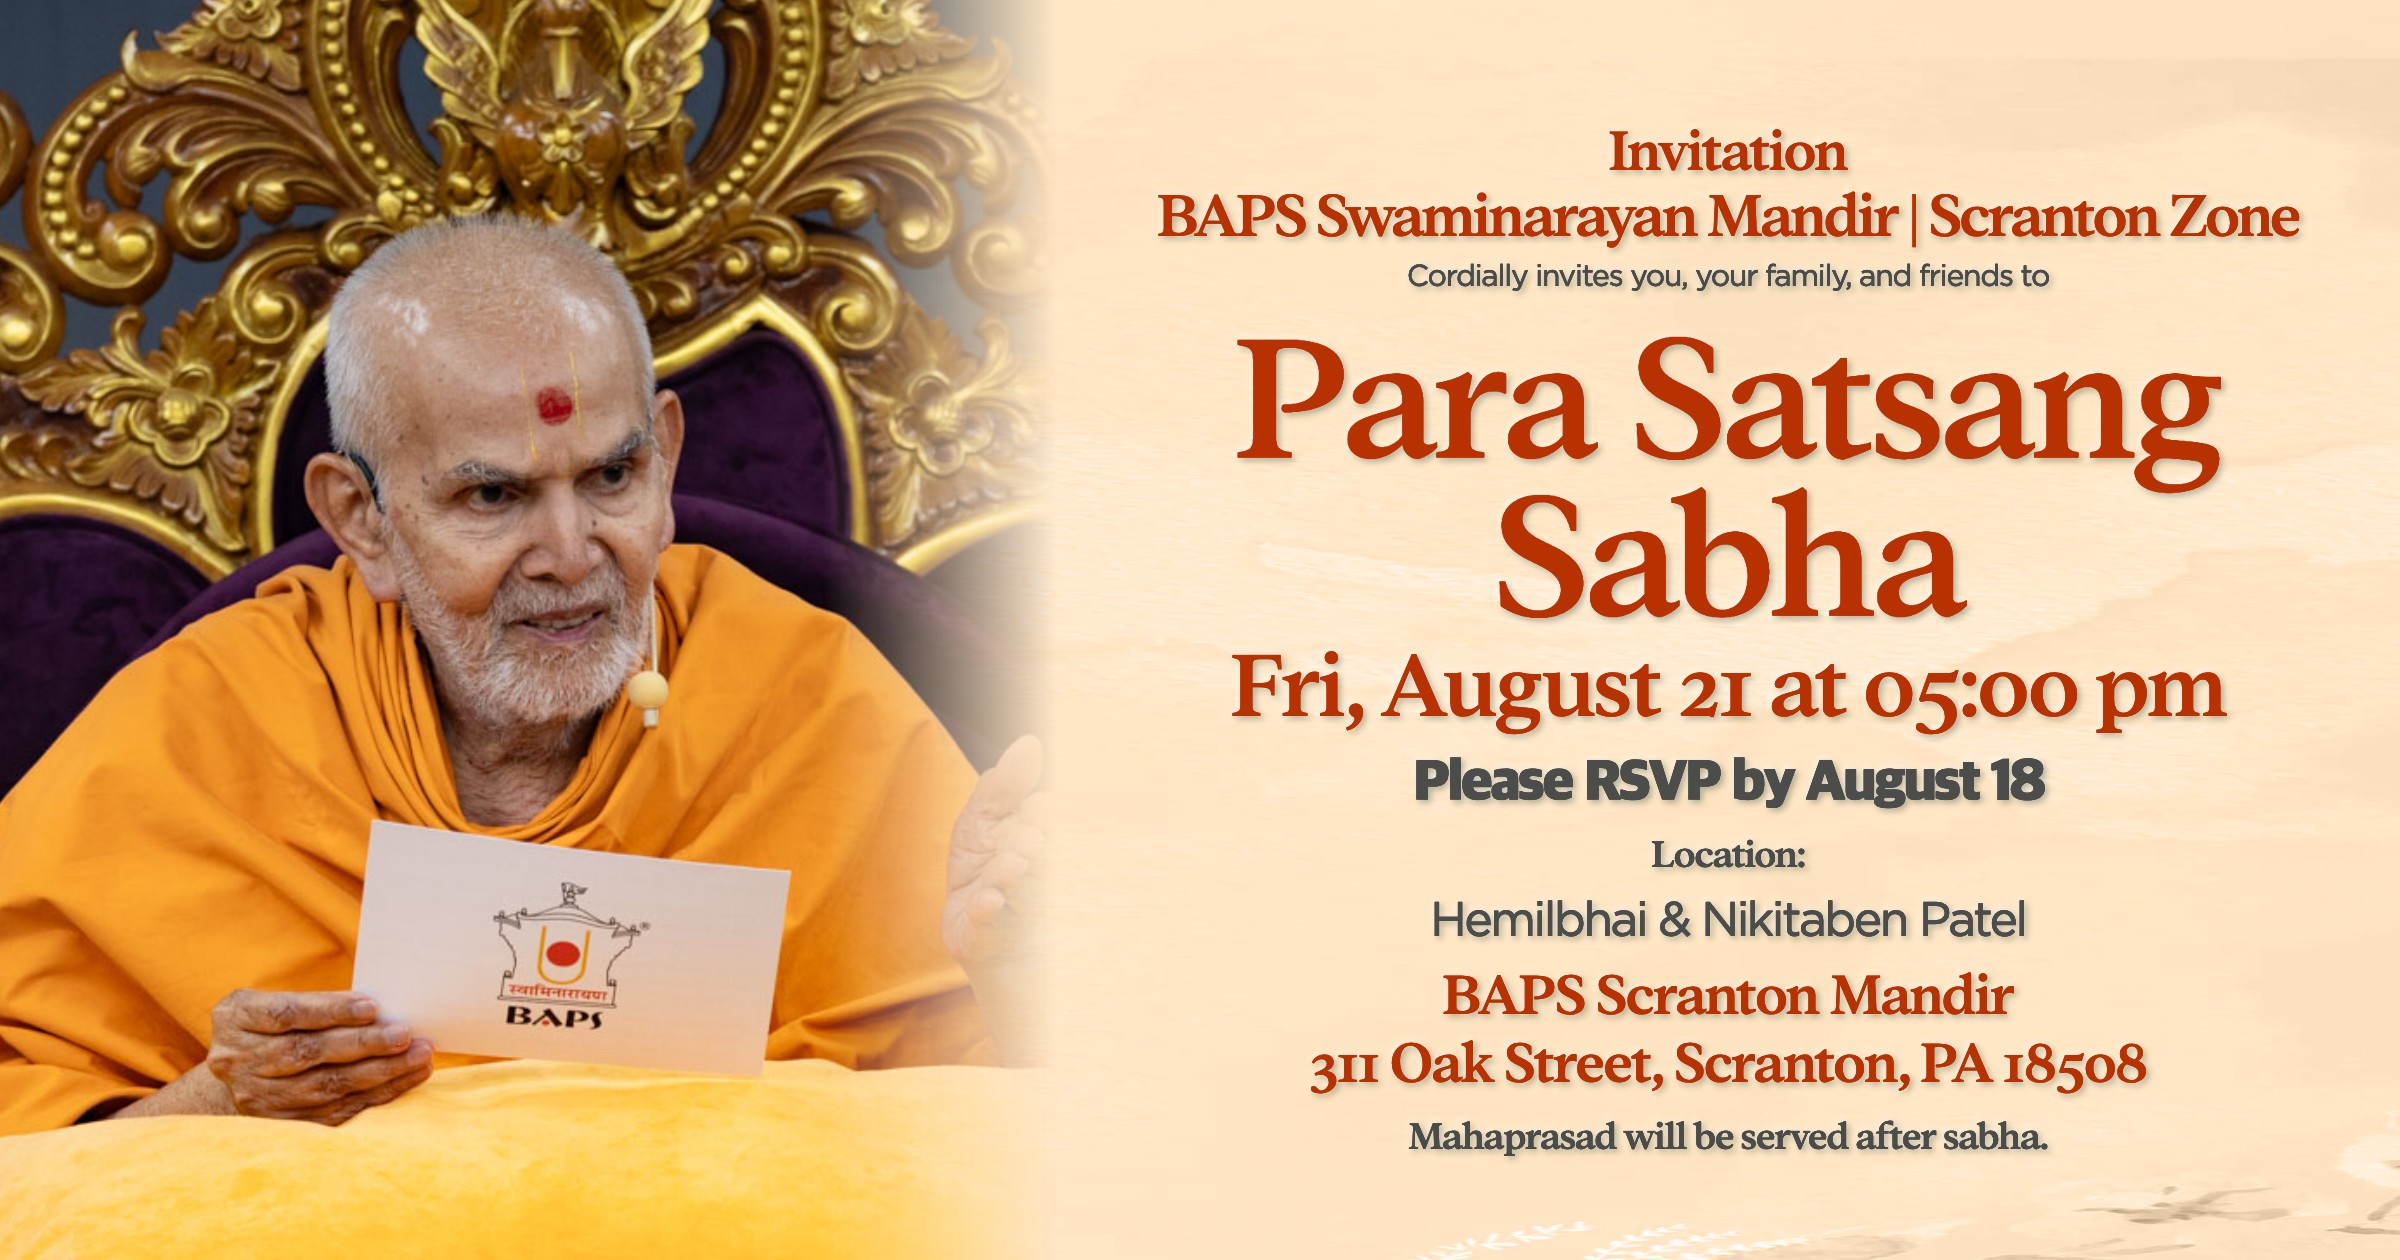
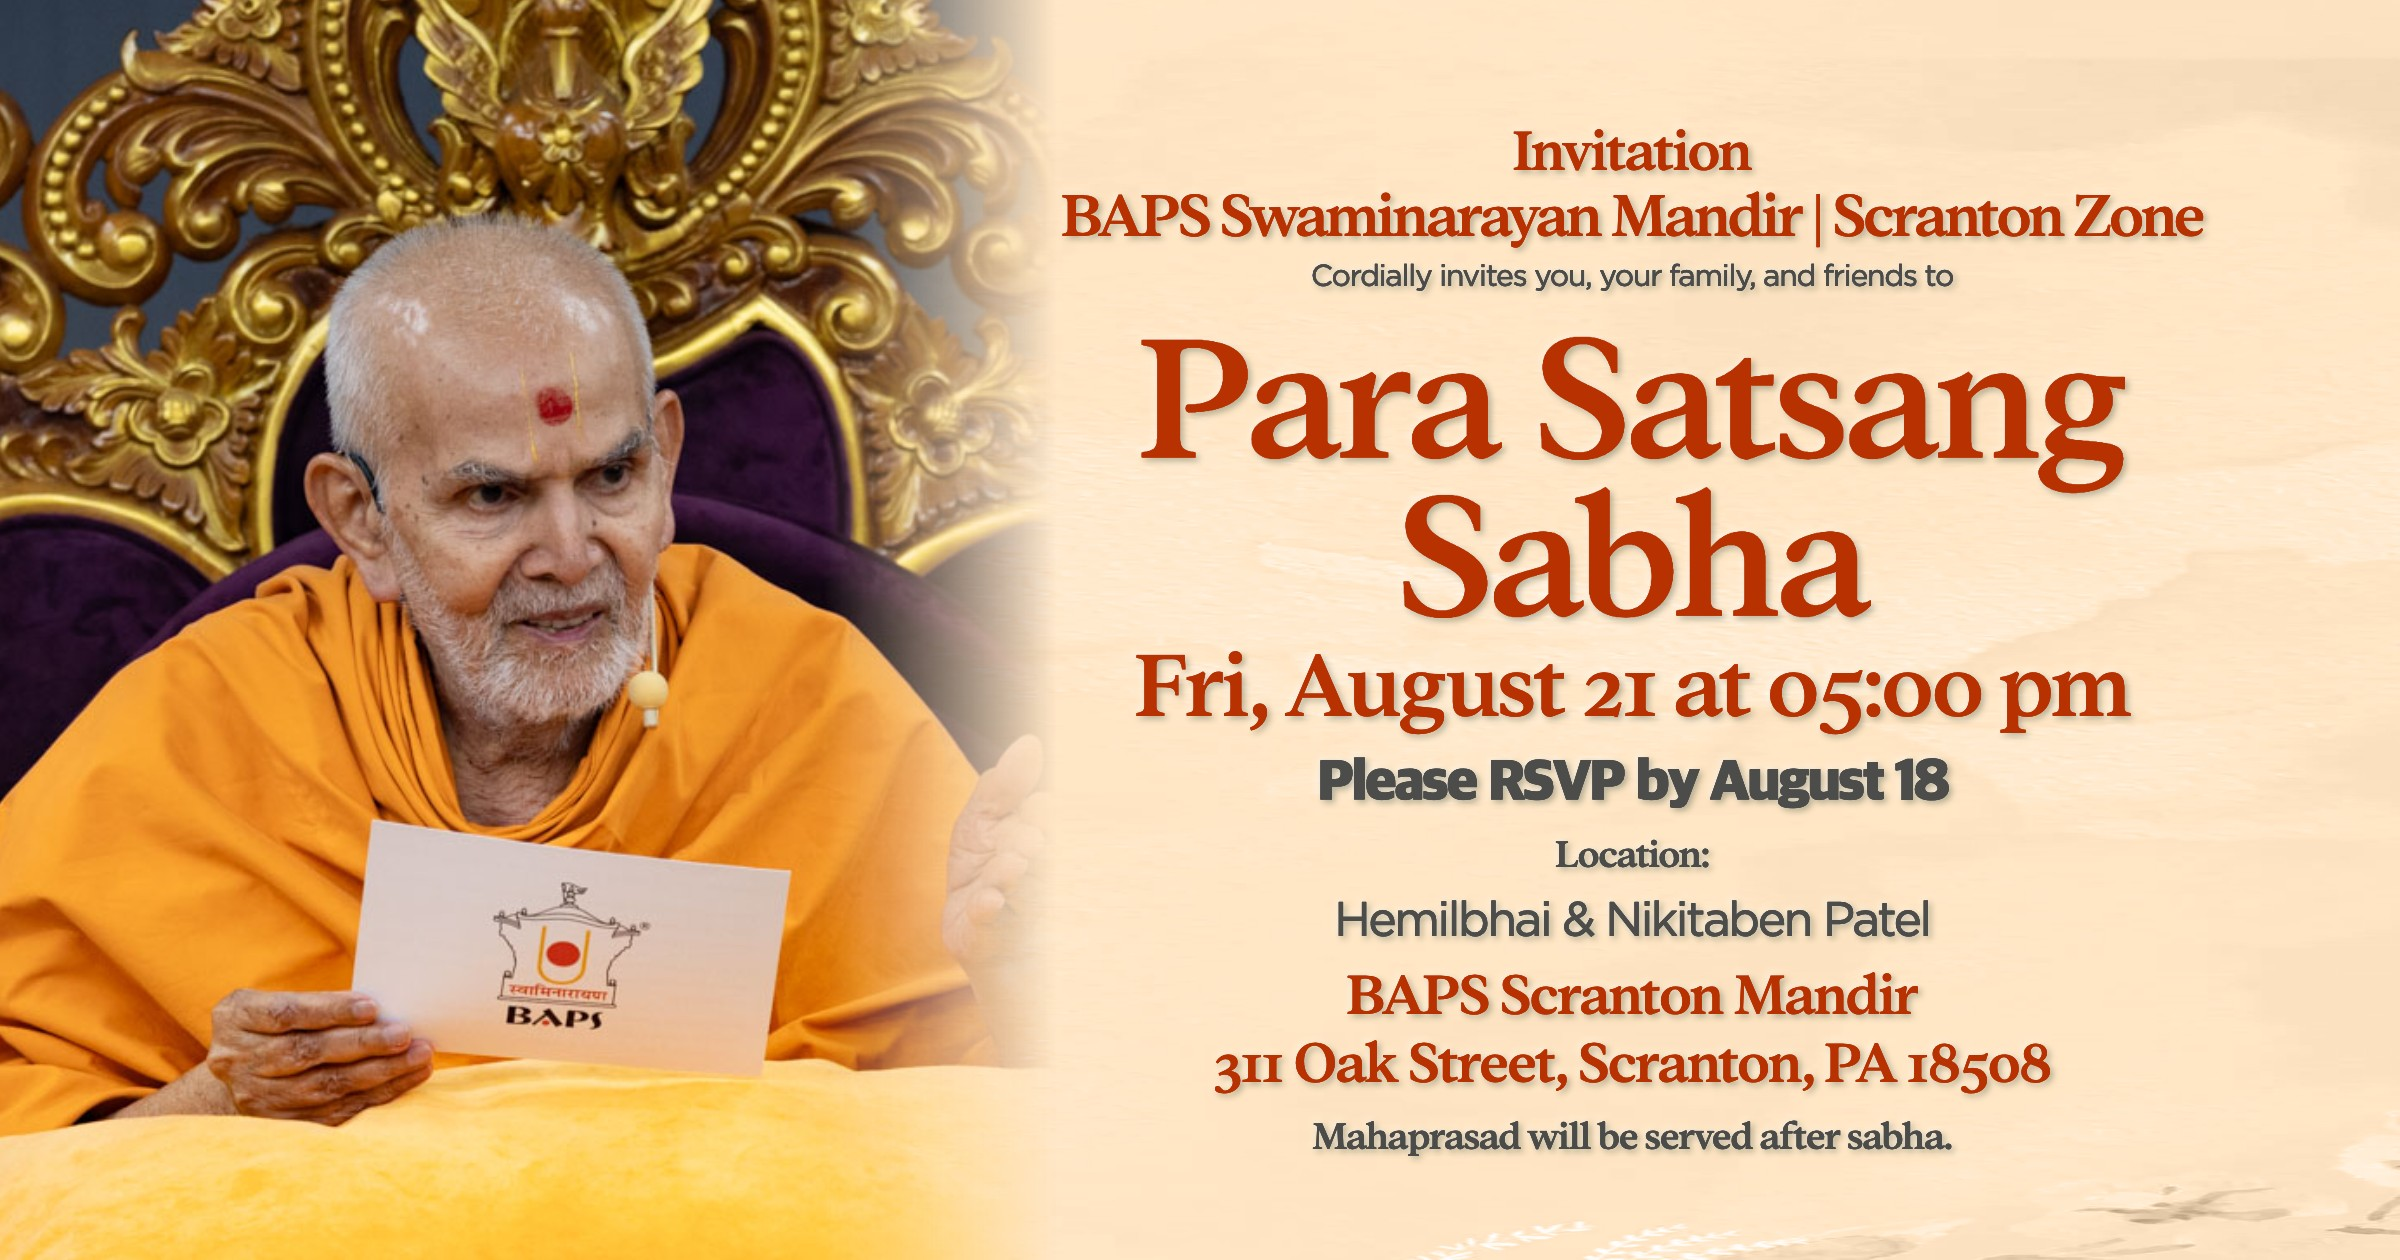
fix(announcement): shift OG text left (cxPct 0.68) + hi-res Mountain Top OG
Longer zone names (e.g. "Mountain Top Zone") were clipped on the right when the OG is cropped to 16:9 for the announcement. Shift the OG text column left (cxPct 0.72 -> 0.68) so long names survive the crop with margin; verified no photo overlap.

Also re-rendered Mountain Top OG at 2400px (photo 2025-09-20-023-jodhpur) and Scranton OG at cxPct 0.68, so both announcements are crisp 1920x1080 and fit.

Changed region(s): [[0.4375, 0.0929, 0.9688, 0.4952], [0.4688, 0.4952, 0.9375, 0.7429], [0.5, 0.7738, 0.9062, 0.9286]]

diff --git a/public/flyer-builder/flyer-render.js b/public/flyer-builder/flyer-render.js
@@ -105,19 +105,19 @@
       canvas: { width: 1200, height: 630 },
       photoPanel: { leftPct: 0, widthPct: 0.44, topPct: 0, bottomPct: 1.0 },
       photoFeatherPct: 0.22, // right-edge fade of the photo panel into the bg
-      header: { widthPct: 0.072, cxPct: 0.72, topPct: 0.035 },
+      header: { widthPct: 0.072, cxPct: 0.68, topPct: 0.035 },
       text: [
-        { key: 'invitation',    cxPct: 0.72, yPct: 0.115, font: 'AddingtonCF',   sizePx: 30, weight: 400, color: '#85381c', maxWidthPct: 0.50, lineHeight: 1.1, tracking: -25, tint: true },
-        { key: 'zoneLine',      cxPct: 0.72, yPct: 0.180, font: 'AddingtonCF',   sizePx: 23, weight: 400, color: '#85381c', maxWidthPct: 0.54, lineHeight: 1.1, tracking: -40, tint: true },
-        { key: 'cordially',     cxPct: 0.72, yPct: 0.242, font: 'GothamRegular',     sizePx: 15, weight: 400, color: '#4b4b4a', maxWidthPct: 0.50, lineHeight: 1.2, tracking: -40, tint2: true },
-        { key: 'title',         cxPct: 0.72, yPct: 0.300, font: 'AddingtonCF',       sizePx: 66, weight: 400, color: '#85381c', maxWidthPct: 0.54, lineHeight: 0.85, wrap: true, tracking: -25, tint: true },
-        { key: 'santos',        cxPct: 0.72, yPct: 0.540, font: 'GothamRegular',     sizePx: 18, weight: 400, color: '#4a4882', maxWidthPct: 0.54, lineHeight: 1.3, tracking: -40 },
-        { key: 'datetime',      cxPct: 0.72, yPct: 0.585, font: 'AddingtonCF',       sizePx: 36, weight: 400, color: '#85381c', maxWidthPct: 0.54, lineHeight: 1.3, tracking: -25, tint: true },
-        { key: 'rsvp',          cxPct: 0.72, yPct: 0.655, font: 'AppleSDGothicNeoH', sizePx: 18, weight: 400, color: '#4c4c4b', maxWidthPct: 0.50, lineHeight: 1.3, tracking: -50, tint2: true },
-        { key: 'locationLabel', cxPct: 0.72, yPct: 0.700, font: 'AddingtonCF',       sizePx: 16, weight: 400, color: '#4b4b4a', maxWidthPct: 0.50, lineHeight: 1.3, tracking: -25, tint2: true },
-        { key: 'host',          cxPct: 0.72, yPct: 0.735, font: 'GothamRegular',     sizePx: 22, weight: 400, color: '#4c4c4b', maxWidthPct: 0.50, lineHeight: 1.3, tracking: -50, tint2: true },
-        { key: 'address',       cxPct: 0.72, yPct: 0.778, font: 'AddingtonCF',       sizePx: 20, weight: 400, color: '#85381c', maxWidthPct: 0.50, lineHeight: 1.12, tracking: -25, tint: true },
-        { key: 'mahaprasad',    cxPct: 0.72, yPct: 0.880, font: 'AddingtonCF',       sizePx: 16, weight: 400, color: '#4b4b4a', maxWidthPct: 0.50, lineHeight: 1.3, tracking: -25, tint2: true },
+        { key: 'invitation',    cxPct: 0.68, yPct: 0.115, font: 'AddingtonCF',   sizePx: 30, weight: 400, color: '#85381c', maxWidthPct: 0.50, lineHeight: 1.1, tracking: -25, tint: true },
+        { key: 'zoneLine',      cxPct: 0.68, yPct: 0.180, font: 'AddingtonCF',   sizePx: 23, weight: 400, color: '#85381c', maxWidthPct: 0.54, lineHeight: 1.1, tracking: -40, tint: true },
+        { key: 'cordially',     cxPct: 0.68, yPct: 0.242, font: 'GothamRegular',     sizePx: 15, weight: 400, color: '#4b4b4a', maxWidthPct: 0.50, lineHeight: 1.2, tracking: -40, tint2: true },
+        { key: 'title',         cxPct: 0.68, yPct: 0.300, font: 'AddingtonCF',       sizePx: 66, weight: 400, color: '#85381c', maxWidthPct: 0.54, lineHeight: 0.85, wrap: true, tracking: -25, tint: true },
+        { key: 'santos',        cxPct: 0.68, yPct: 0.540, font: 'GothamRegular',     sizePx: 18, weight: 400, color: '#4a4882', maxWidthPct: 0.54, lineHeight: 1.3, tracking: -40 },
+        { key: 'datetime',      cxPct: 0.68, yPct: 0.585, font: 'AddingtonCF',       sizePx: 36, weight: 400, color: '#85381c', maxWidthPct: 0.54, lineHeight: 1.3, tracking: -25, tint: true },
+        { key: 'rsvp',          cxPct: 0.68, yPct: 0.655, font: 'AppleSDGothicNeoH', sizePx: 18, weight: 400, color: '#4c4c4b', maxWidthPct: 0.50, lineHeight: 1.3, tracking: -50, tint2: true },
+        { key: 'locationLabel', cxPct: 0.68, yPct: 0.700, font: 'AddingtonCF',       sizePx: 16, weight: 400, color: '#4b4b4a', maxWidthPct: 0.50, lineHeight: 1.3, tracking: -25, tint2: true },
+        { key: 'host',          cxPct: 0.68, yPct: 0.735, font: 'GothamRegular',     sizePx: 22, weight: 400, color: '#4c4c4b', maxWidthPct: 0.50, lineHeight: 1.3, tracking: -50, tint2: true },
+        { key: 'address',       cxPct: 0.68, yPct: 0.778, font: 'AddingtonCF',       sizePx: 20, weight: 400, color: '#85381c', maxWidthPct: 0.50, lineHeight: 1.12, tracking: -25, tint: true },
+        { key: 'mahaprasad',    cxPct: 0.68, yPct: 0.880, font: 'AddingtonCF',       sizePx: 16, weight: 400, color: '#4b4b4a', maxWidthPct: 0.50, lineHeight: 1.3, tracking: -25, tint2: true },
       ],
       satsang: {
         title:         { yPct: 0.228, sizePx: 117 },

diff --git a/public/flyer-builder/index.html b/public/flyer-builder/index.html
@@ -189,7 +189,7 @@
   </div>
 </div>
 
-<script src="/flyer-builder/flyer-render.js?v=27"></script>
+<script src="/flyer-builder/flyer-render.js?v=28"></script>
 <script>
 // ── Zone config ───────────────────────────────────────────────────────────────
 const PREVIEW_TEMPLATES = {

diff --git a/public/flyer-builder/vetter.html b/public/flyer-builder/vetter.html
@@ -96,7 +96,7 @@ body { font-family: 'DM Sans', sans-serif; background: #2a2320; color: #eee; dis
 
 <div class="stage"><canvas id="preview"></canvas></div>
 
-<script src="/flyer-builder/flyer-render.js?v=27"></script>
+<script src="/flyer-builder/flyer-render.js?v=28"></script>
 <script>
 const SAMPLE = {
   invitation: 'Invitation',

diff --git a/public/flyer-builder/og-vetter.html b/public/flyer-builder/og-vetter.html
@@ -65,7 +65,7 @@ body { font-family: 'DM Sans', sans-serif; background: #2a2320; color: #eee; dis
 
 <div class="stage"><canvas id="preview"></canvas></div>
 
-<script src="/flyer-builder/flyer-render.js?v=27"></script>
+<script src="/flyer-builder/flyer-render.js?v=28"></script>
 <script>
 const PREVIEW_W = 1200;
 const SAMPLE = {
